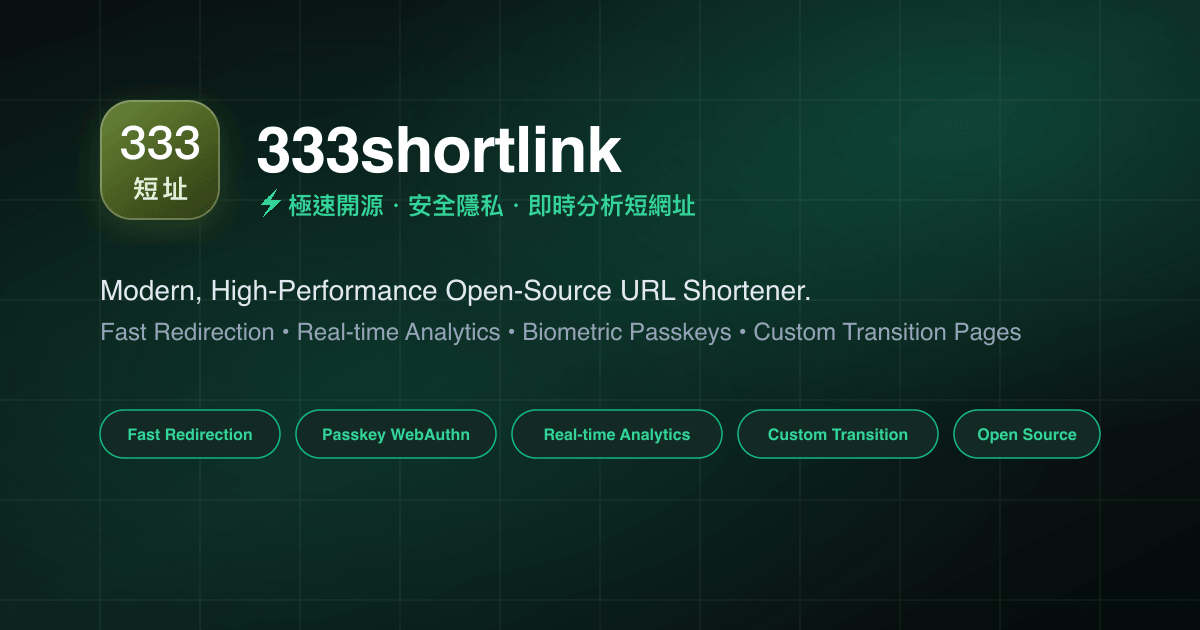
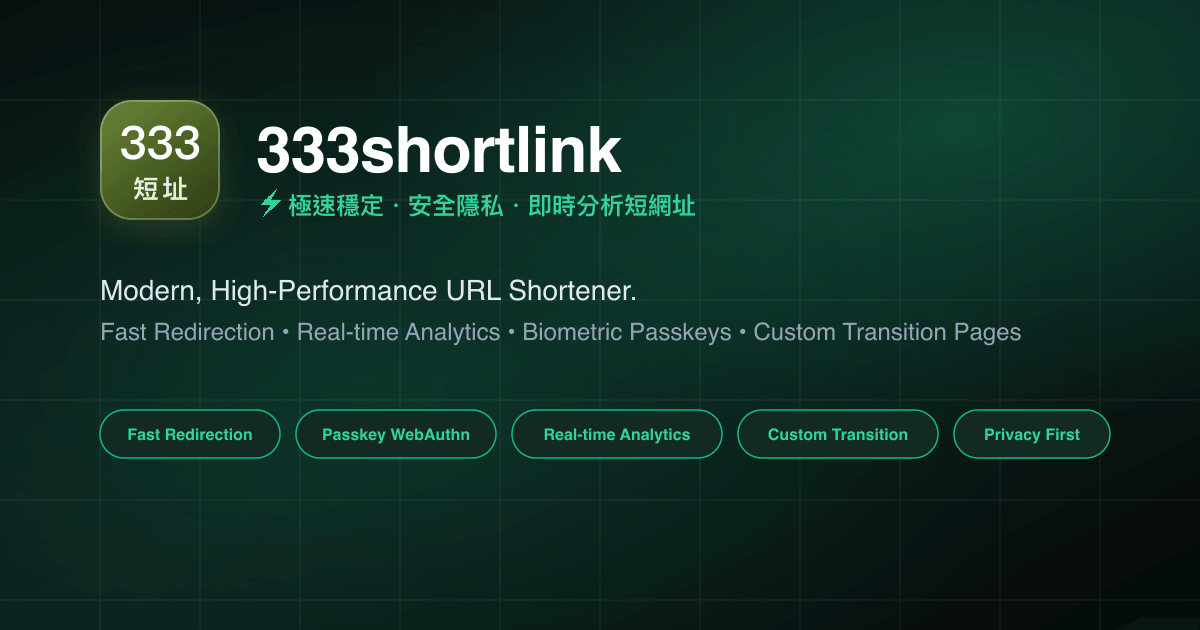
fix(seo): remove open-source emphasis from titles and descriptions

Changed region(s): [[0.37, 0.4222, 0.6783, 0.4825], [0.8017, 0.6333, 0.925, 0.7238], [0.2775, 0.3016, 0.3392, 0.3619]]

diff --git a/tests/seo.spec.ts b/tests/seo.spec.ts
@@ -12,7 +12,8 @@ describe('sEO & Meta Tags', () => {
     expect(html).toContain('property="og:image"')
     expect(html).toContain('content="index, follow')
     expect(html).not.toContain('content="noindex, nofollow"')
-    expect(html).toContain('現代化極速開源短網址服務')
+    expect(html).toContain('現代化極速短網址服務')
+    expect(html).not.toContain('現代化極速開源短網址服務')
   })
 
   it('serves homepage with English SEO tags when Accept-Language is English', async () => {
@@ -21,6 +22,7 @@ describe('sEO & Meta Tags', () => {
 
     const html = await res.text()
     expect(html).toContain('rel="canonical"')
-    expect(html).toContain('Modern Open-Source URL Shortener')
+    expect(html).toContain('Modern URL Shortener')
+    expect(html).not.toContain('Modern Open-Source URL Shortener')
   })
 })

diff --git a/app/app.config.ts b/app/app.config.ts
@@ -6,7 +6,7 @@ export default defineAppConfig({
   telegram: '',
   discord: '',
   blog: '',
-  description: '現代化極速開源短網址服務。支援生物識別 Passkey 免密登入、即時訪客統計與全球地理分析、自定義中轉過渡跳轉頁面與開放 API，輕量高效且保障隱私。',
+  description: '現代化極速短網址服務。支援生物識別 Passkey 免密登入、即時訪客統計與全球地理分析、自定義中轉過渡跳轉頁面與開放 API，輕量高效且保障隱私。',
   image: '/banner.png',
   previewTTL: 300, // 5 minutes
   slugRegex: /^[a-z0-9]+(?:-[a-z0-9]+)*$/i,

diff --git a/CHANGELOG.md b/CHANGELOG.md
@@ -2,6 +2,20 @@
 
 ## 📅 [2026-10-06]
 
+### 📌 標題去「開源」化與專業短網址品牌調校 (Title & SEO Neutralization - Remove "Open-Source")
+
+* **全站標題 (Title) 與 SEO Meta 去「開源」化**：
+  * **繁體中文 (`i18n/locales/zh-TW.json`)**：SEO 標題調整為「現代化極速短網址服務 | 隱私安全・即時分析・客製跳轉」，描述同步去「開源」字樣，凸顯極速、穩定、隱私安全之核心價值。
+  * **簡體中文 (`i18n/locales/zh-CN.json`)**：SEO 標題調整為「现代化极速短链接服务 | 隐私安全・即时分析・客制跳转」。
+  * **英文與多語系 (`en-US`, `de-DE`, `fr-FR`, `vi-VN`)**：標題全面去除 `Open-Source` / `open source` / `mã nguồn mở`，統一聚焦為 `Modern URL Shortener | Fast, Secure & Custom Redirects`。
+  * **全站應用設定 (`app/app.config.ts`)**：全域預設 description 去除「開源」，維護產品純粹、商務與專業形象。
+  * **社群分享橫幅 (`public/banner.svg` & `public/banner.png`)**：
+    * 頂部副標題由「⚡ 極速開源・安全隱私・即時分析短網址」校正為「⚡ 極速穩定・安全隱私・即時分析短網址」。
+    * 英文描述由 `Modern, High-Performance Open-Source URL Shortener.` 調整為 `Modern, High-Performance URL Shortener.`。
+    * 特色膠囊（Feature Pill）由 `Open Source` 替換為 `Privacy First`。
+    * 透過 Sharp 重新編譯生成標準 1200x630px 社群預覽圖。
+  * **單元測試同步驗證 (`tests/seo.spec.ts`)**：測試案例加入反向斷言 `expect(html).not.toContain('現代化極速開源短網址服務')` 與 `expect(html).not.toContain('Modern Open-Source URL Shortener')`，確保未來回歸零風險。
+
 ### 📌 中文排版層級全面升級放大與登入版面大氣重構 (CJK Typography Scale & Login Layout Upgrade)
 
 * **中文字體視覺比例深度校正與層級大幅放大 ([`app/layouts/auth.vue`](app/layouts/auth.vue) & [`app/components/login/index.vue`](app/components/login/index.vue))**：
